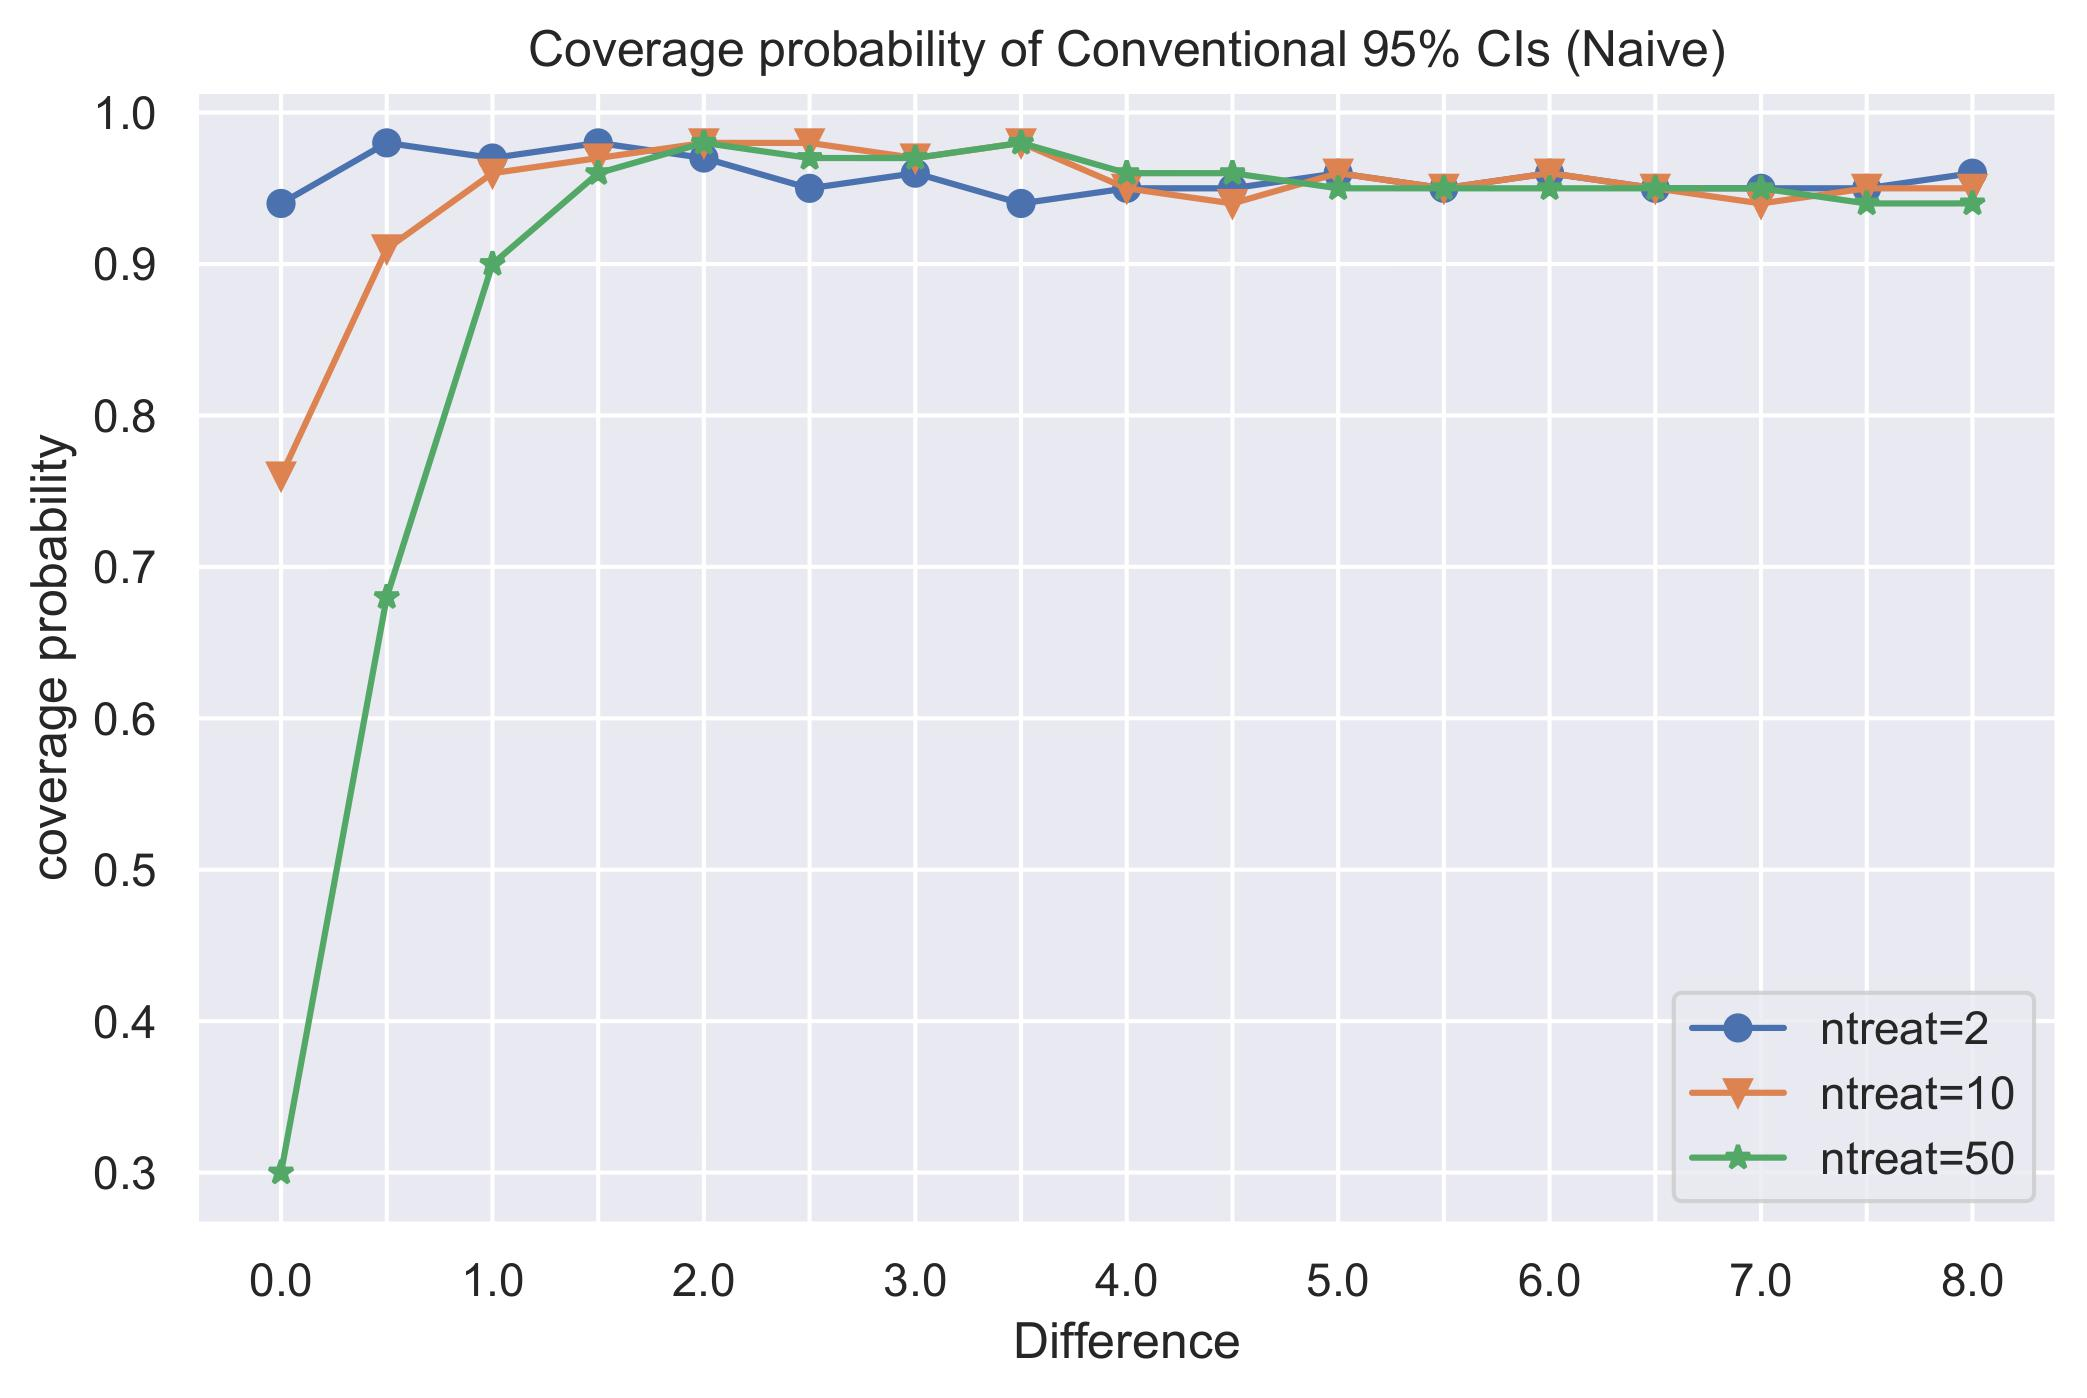
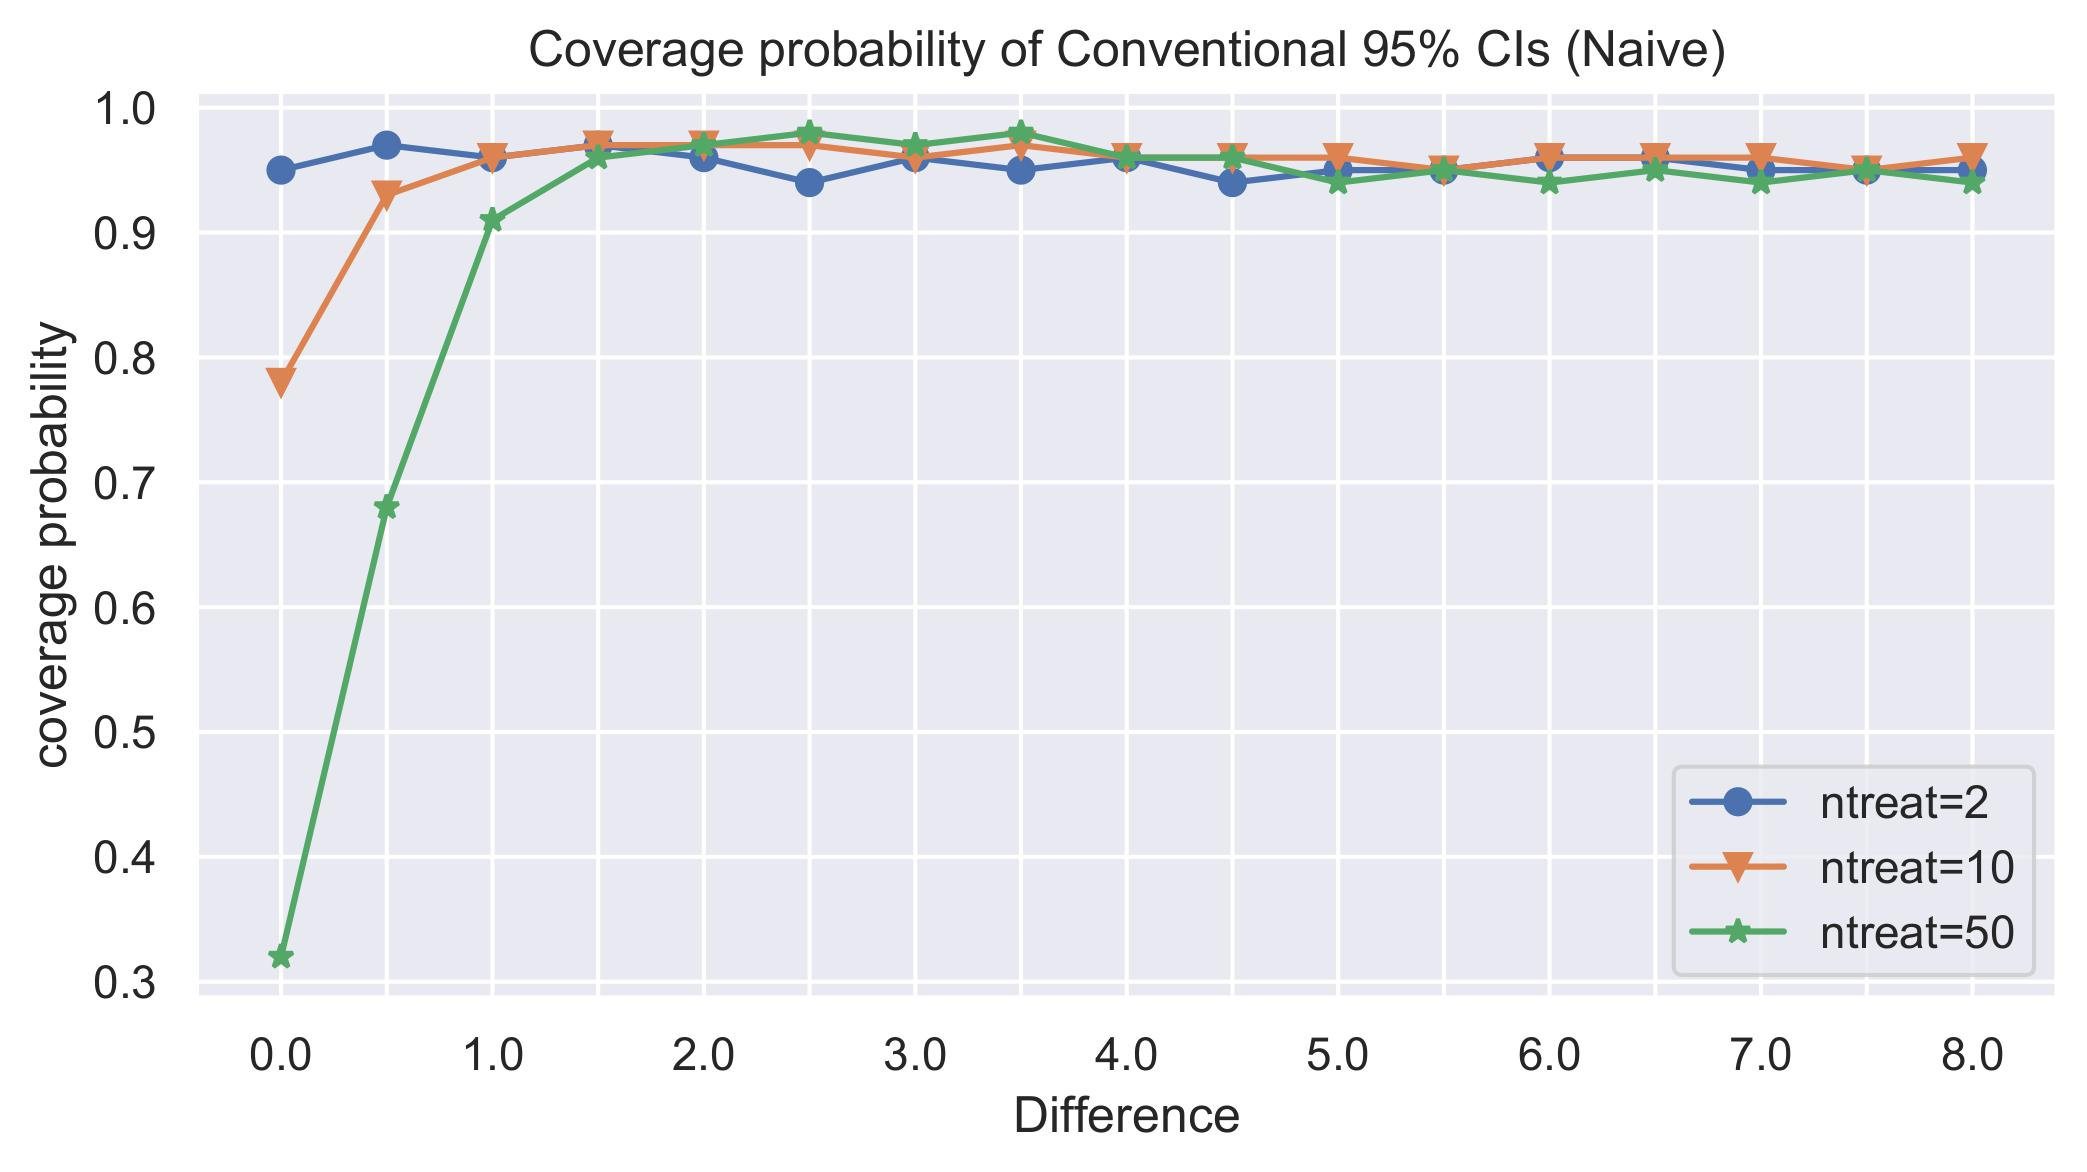
update

diff --git a/experiment/plotting.py b/experiment/plotting.py
@@ -25,7 +25,7 @@ def plot_coverage(model_name, nsample):
     coverage_arr = np.round(coverage_arr, 2)
 
     # plot coverage rate
-    fig, ax = plt.subplots(1, 1, figsize=(8, 5))
+    fig, ax = plt.subplots(1, 1, figsize=(8, 4))
     ax.plot(coverage_arr[0, :], "o-", label="ntreat=2")
     ax.plot(coverage_arr[1, :], "v-", label="ntreat=10")
     ax.plot(coverage_arr[2, :], "*-", label="ntreat=50")
@@ -34,6 +34,6 @@ def plot_coverage(model_name, nsample):
     ax.set_xlabel("Difference")
     ax.set_ylabel("coverage probability")
     ax.set_title(f"Coverage probability of Conventional 95% CIs ({model_name})")
-    ax.legend()
+    ax.legend(loc="lower right")
 
     return fig

diff --git a/README.md b/README.md
@@ -5,7 +5,7 @@
 </p>
 
 ## Coverage Probability
-The unconditional coverage probability with `ntreat=2, 10, 50` and difference between the winning arm and the remaining arms ranging from `0` to `8`.
+The coverage probability with `ntreat=2, 10, 50` and difference between the winning arm and the remaining arms ranging from `0` to `8`.
 
 #### Naive method
 ![alt text](./__resources__/naive.jpg?raw=true "Title")
